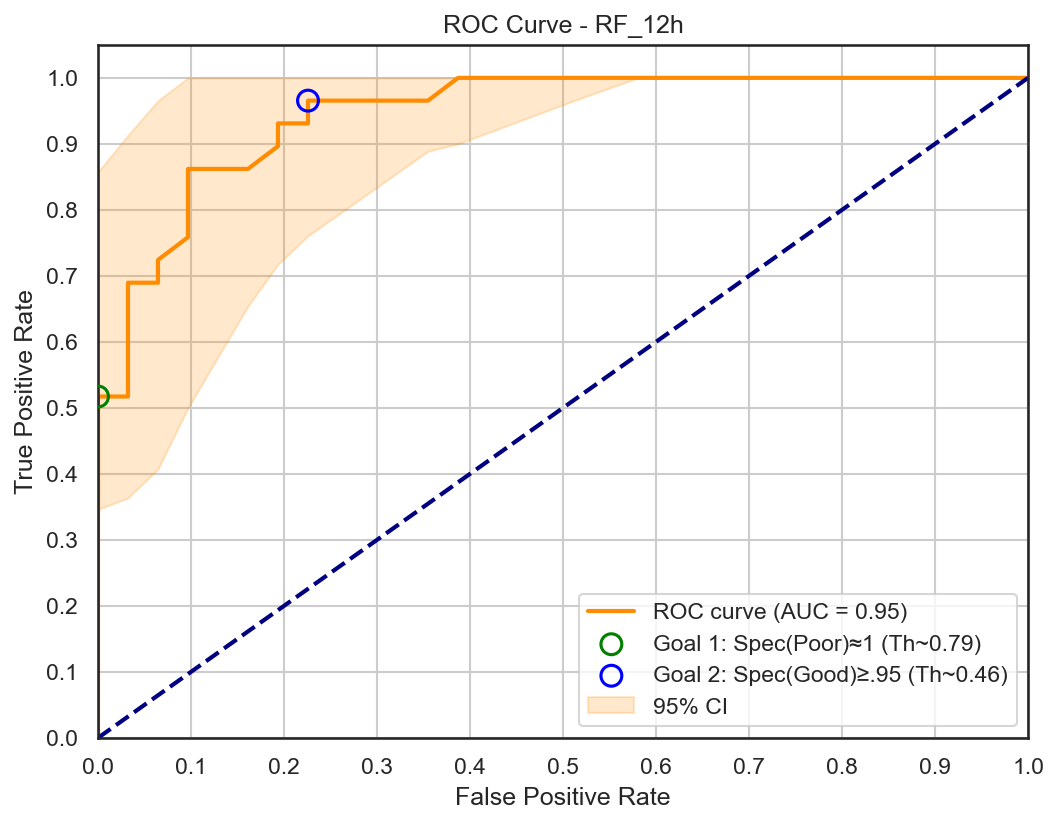
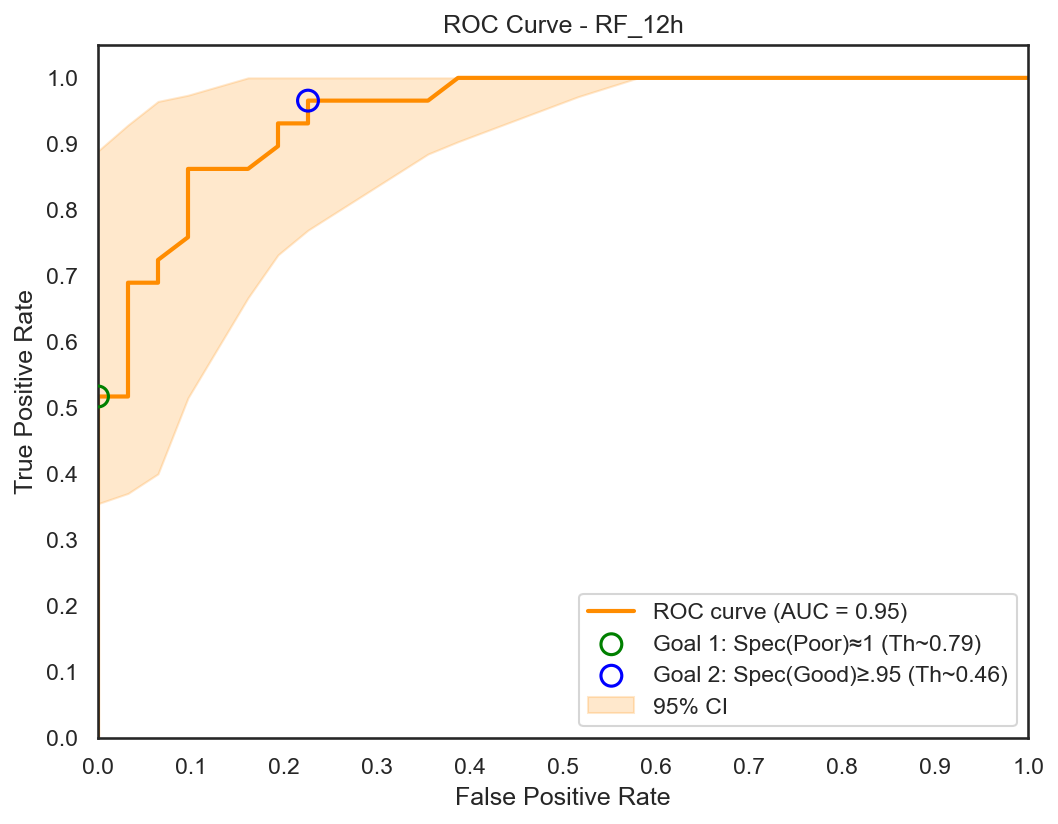
roccurves

diff --git a/Utils/analysis.py b/Utils/analysis.py
@@ -247,7 +247,7 @@ class Analysis:
             # Create the figure
             fig, ax = plt.subplots(figsize=(8, 6))
             ax.plot(fpr, tpr, color='darkorange', lw=2, label=f'ROC curve (AUC = {roc_auc:.2f})')
-            ax.plot([0, 1], [0, 1], color='navy', lw=2, linestyle='--')
+            #ax.plot([0, 1], [0, 1], color='navy', lw=2, linestyle='--')
             ax.scatter(fpr_poor, tpr_poor, s=100, facecolors='none', edgecolors='green', zorder=5, linewidth=1.5,
                     label=f'Goal 1: Spec(Poor)≈1 (Th~{thresh_poor:.2f})')
             ax.scatter(fpr_good, tpr_good, s=100, facecolors='none', edgecolors='blue', zorder=5, linewidth=1.5,
@@ -265,7 +265,7 @@ class Analysis:
             ax.set_ylabel('True Positive Rate')
             ax.set_title(f'ROC Curve - {MODEL_NAME}')
             ax.legend(loc="lower right")
-            ax.grid(True)
+            ax.grid(False)
 
             roc_save_path = os.path.join(OUTPUT_PATH, f"roc_curve_{MODEL_NAME}.png")
             fig.savefig(roc_save_path, dpi=150, bbox_inches='tight')

diff --git a/Utils/config.py b/Utils/config.py
@@ -5,7 +5,7 @@ import torch
 # Training configuration
 # -----------------------------------------
 
-MODEL = '2' # '1' for 12h model, '2' for 24h model
+MODEL = '1' # '1' for 12h model, '2' for 24h model
 if MODEL == '1':
     FILES_USED = '1'
     MODEL_NAME = "RF_12h"
